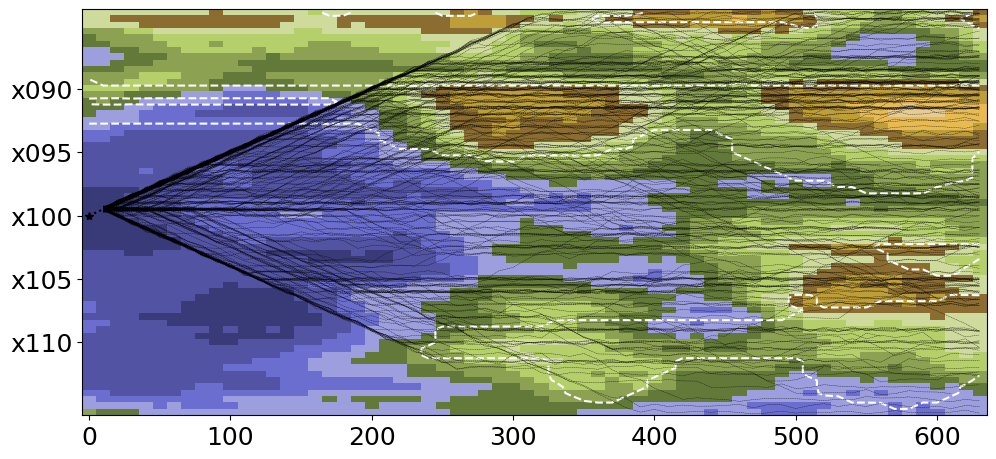
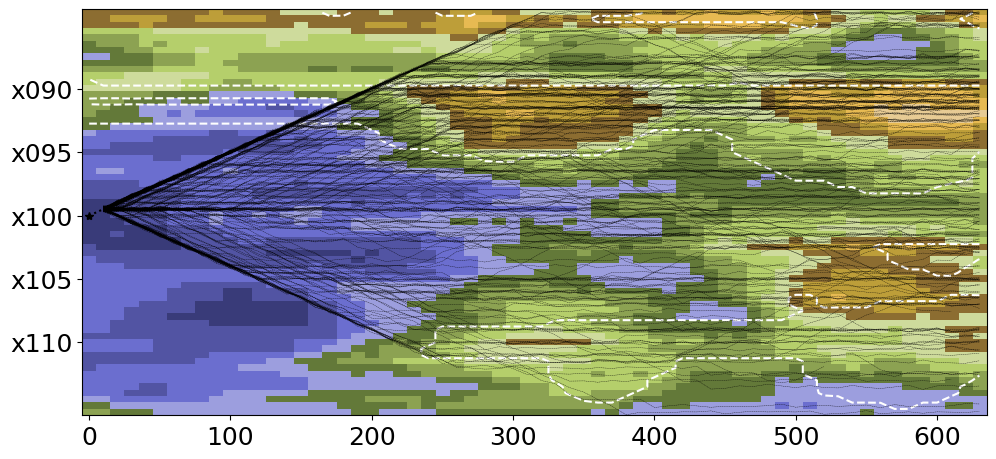
Running with weightes

diff --git a/plot_result.py b/plot_result.py
@@ -104,9 +104,9 @@ def main():
              range(ne)])  # range(state.shape[1])])
 
         # todo should we switch back to probability of sand ??? (use custom weights)
-        # post_earth = np.array(
-        #     [create_weighted_image(evaluate_earth_model(gan_evaluator, state_vectors[:, el]), weights=[0., 1., 1.]) for el in
-        #      range(ne)])  # range(state.shape[1])])
+        post_earth = np.array(
+            [create_weighted_image(evaluate_earth_model(gan_evaluator, state_vectors[:, el]), weights=[0., 1., 1.]) for el in
+             range(ne)])  # range(state.shape[1])])
 
         next_optimal, _garbage_path = pathfinder().run(state_vectors, start_position_at_step)
 
